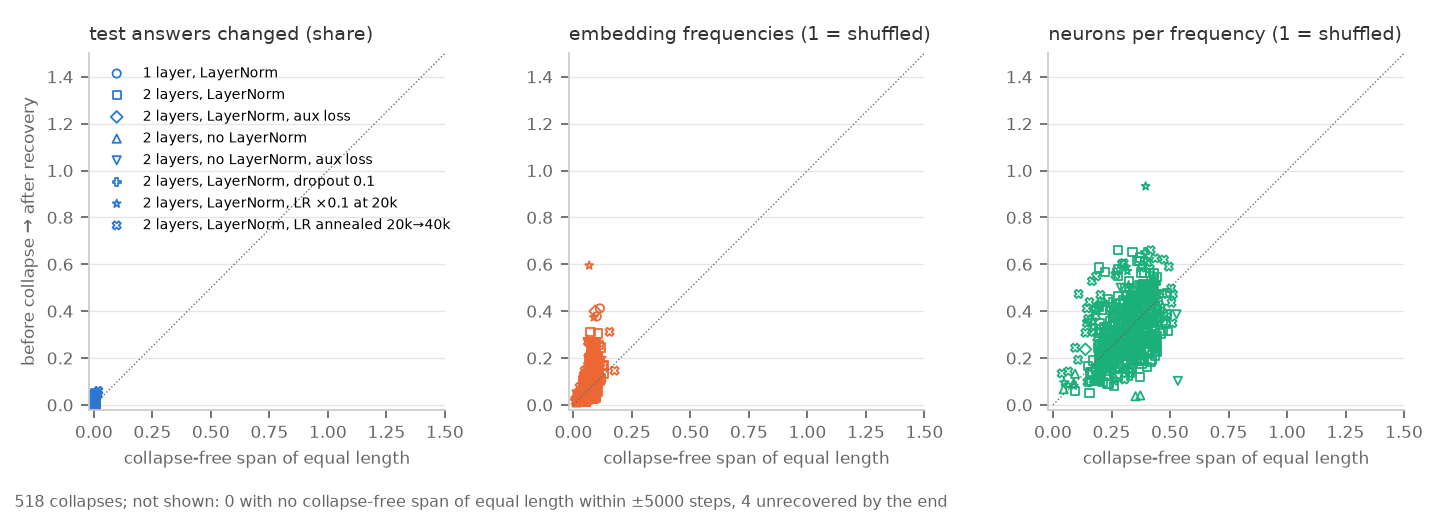
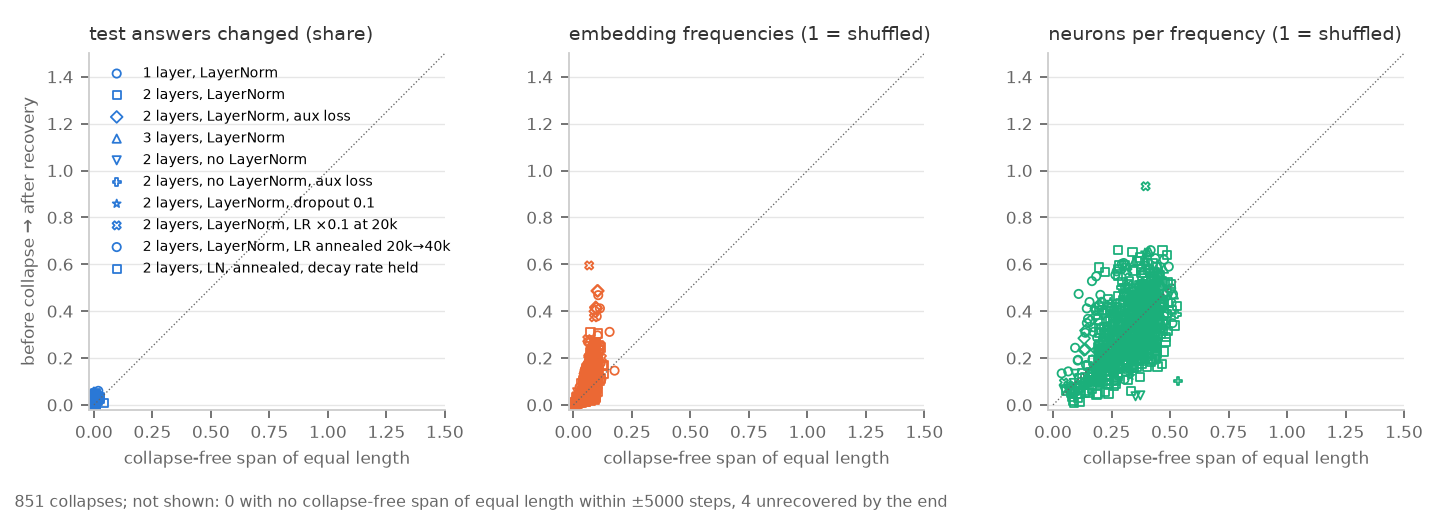
Add follow-up figures: weight/head drift, 3-layer cell, held-decay arm, 10-seed L1 and aux

diff --git a/figures/stability_grid/tail_stability.md b/figures/stability_grid/tail_stability.md
@@ -1,11 +1,13 @@
 | cell | seeds | tail evals >= 0.95 (mean; per seed) | seeds with a tail collapse | worst tail acc | final acc < 0.95 |
 |---|---|---|---|---|---|
-| 1 layer, LayerNorm | 3 | 1.00; 1.00 1.00 1.00 | 0 | 0.99 | 0 |
+| 1 layer, LayerNorm | 10 | 1.00; 1.00 1.00 1.00 0.99 1.00 1.00 1.00 1.00 0.99 1.00 | 2 | 0.80 | 0 |
 | 2 layers, LayerNorm | 10 | 0.90; 0.90 0.93 1.00 0.87 0.97 0.91 0.98 0.82 0.82 0.75 | 9 | 0.05 | 2 |
-| 2 layers, LayerNorm, aux loss | 3 | 1.00; 1.00 1.00 1.00 | 0 | 0.99 | 0 |
+| 3 layers, LayerNorm | 3 | 0.91; 0.92 0.88 0.93 | 3 | 0.01 | 0 |
+| 2 layers, LayerNorm, aux loss | 10 | 1.00; 1.00 1.00 1.00 1.00 1.00 0.99 0.99 1.00 1.00 1.00 | 1 | 0.86 | 0 |
 | 1 layer, no LayerNorm (Nanda) | 3 | 1.00; 1.00 1.00 1.00 | 0 | 0.98 | 0 |
 | 2 layers, no LayerNorm | 3 | 1.00; 1.00 0.99 1.00 | 1 | 0.61 | 0 |
 | 2 layers, no LayerNorm, aux loss | 3 | 0.99; 0.99 1.00 0.99 | 1 | 0.77 | 0 |
 | 2 layers, LayerNorm, dropout 0.1 | 3 | 0.93; 0.93 0.92 0.95 | 3 | 0.02 | 1 |
 | 2 layers, LayerNorm, LR ×0.1 at 20k | 3 | 0.66; 1.00 0.98 0.00 | 1 | 0.48 | 1 |
 | 2 layers, LayerNorm, LR annealed 20k→40k | 10 | 1.00; 1.00 1.00 0.98 1.00 1.00 1.00 1.00 1.00 1.00 1.00 | 1 | 0.41 | 0 |
+| 2 layers, LN, annealed, decay rate held | 10 | 0.97; 0.99 1.00 1.00 1.00 0.74 1.00 1.00 1.00 1.00 0.99 | 2 | 0.72 | 1 |
